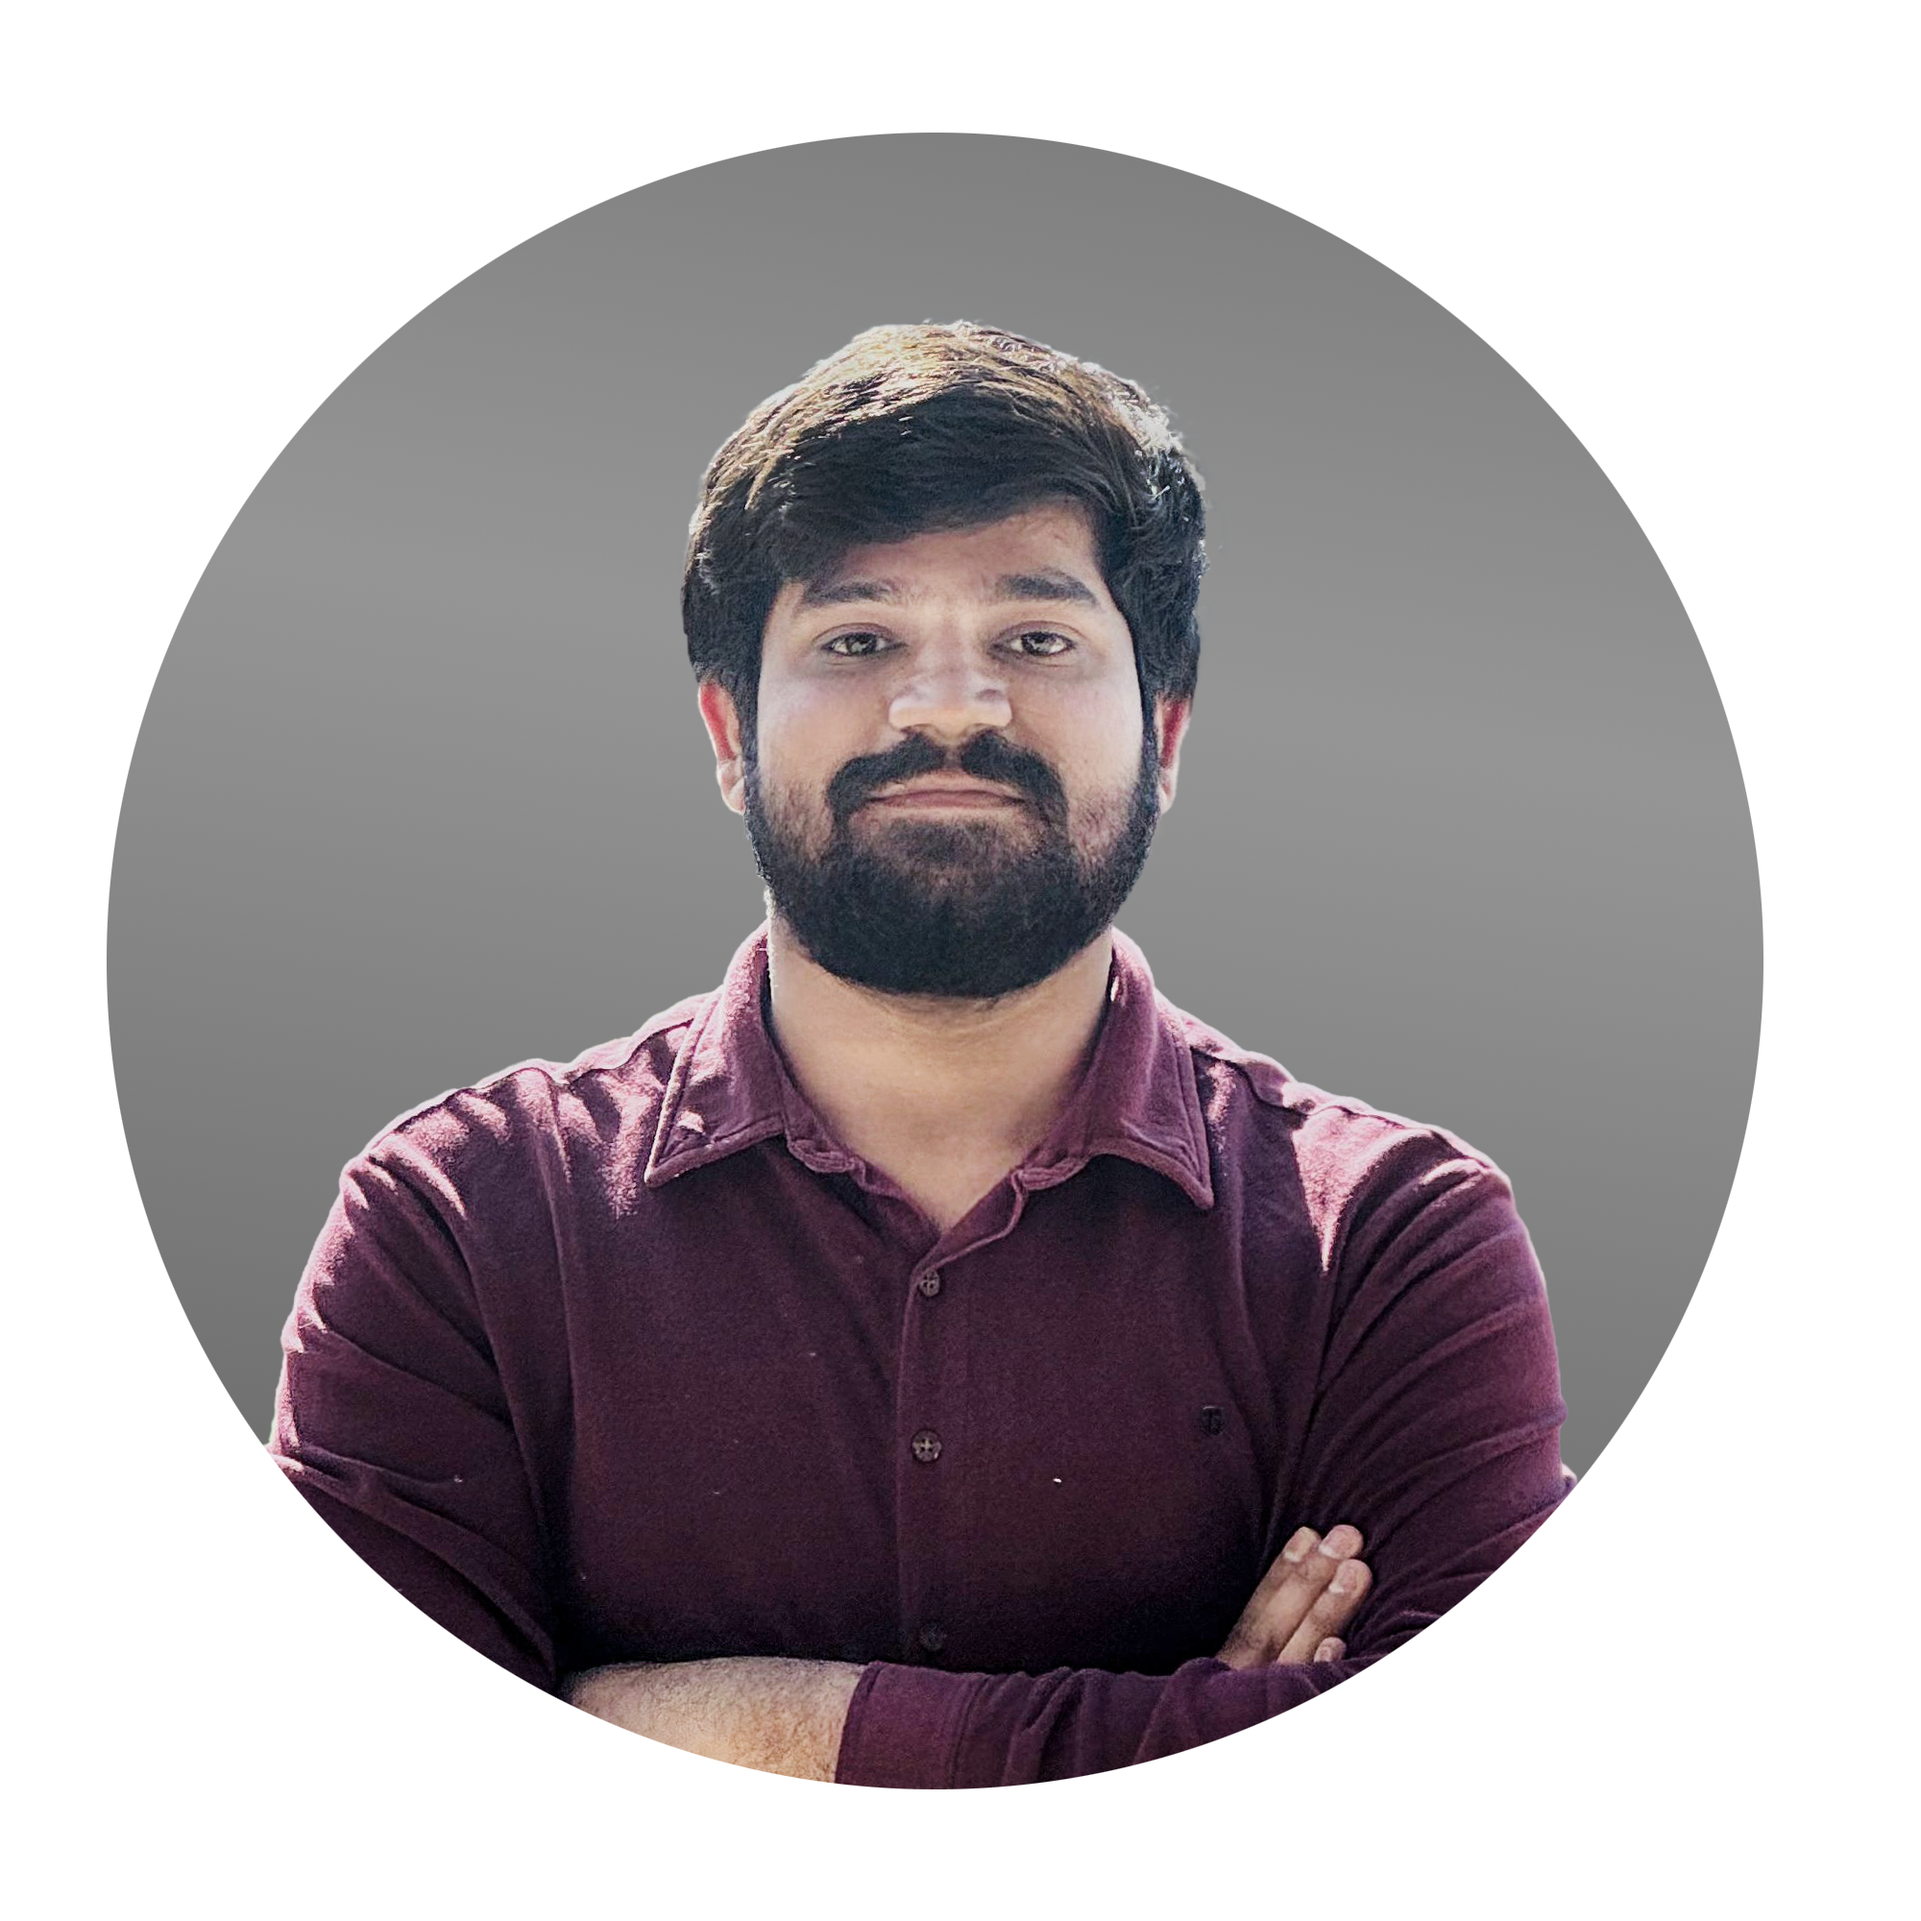
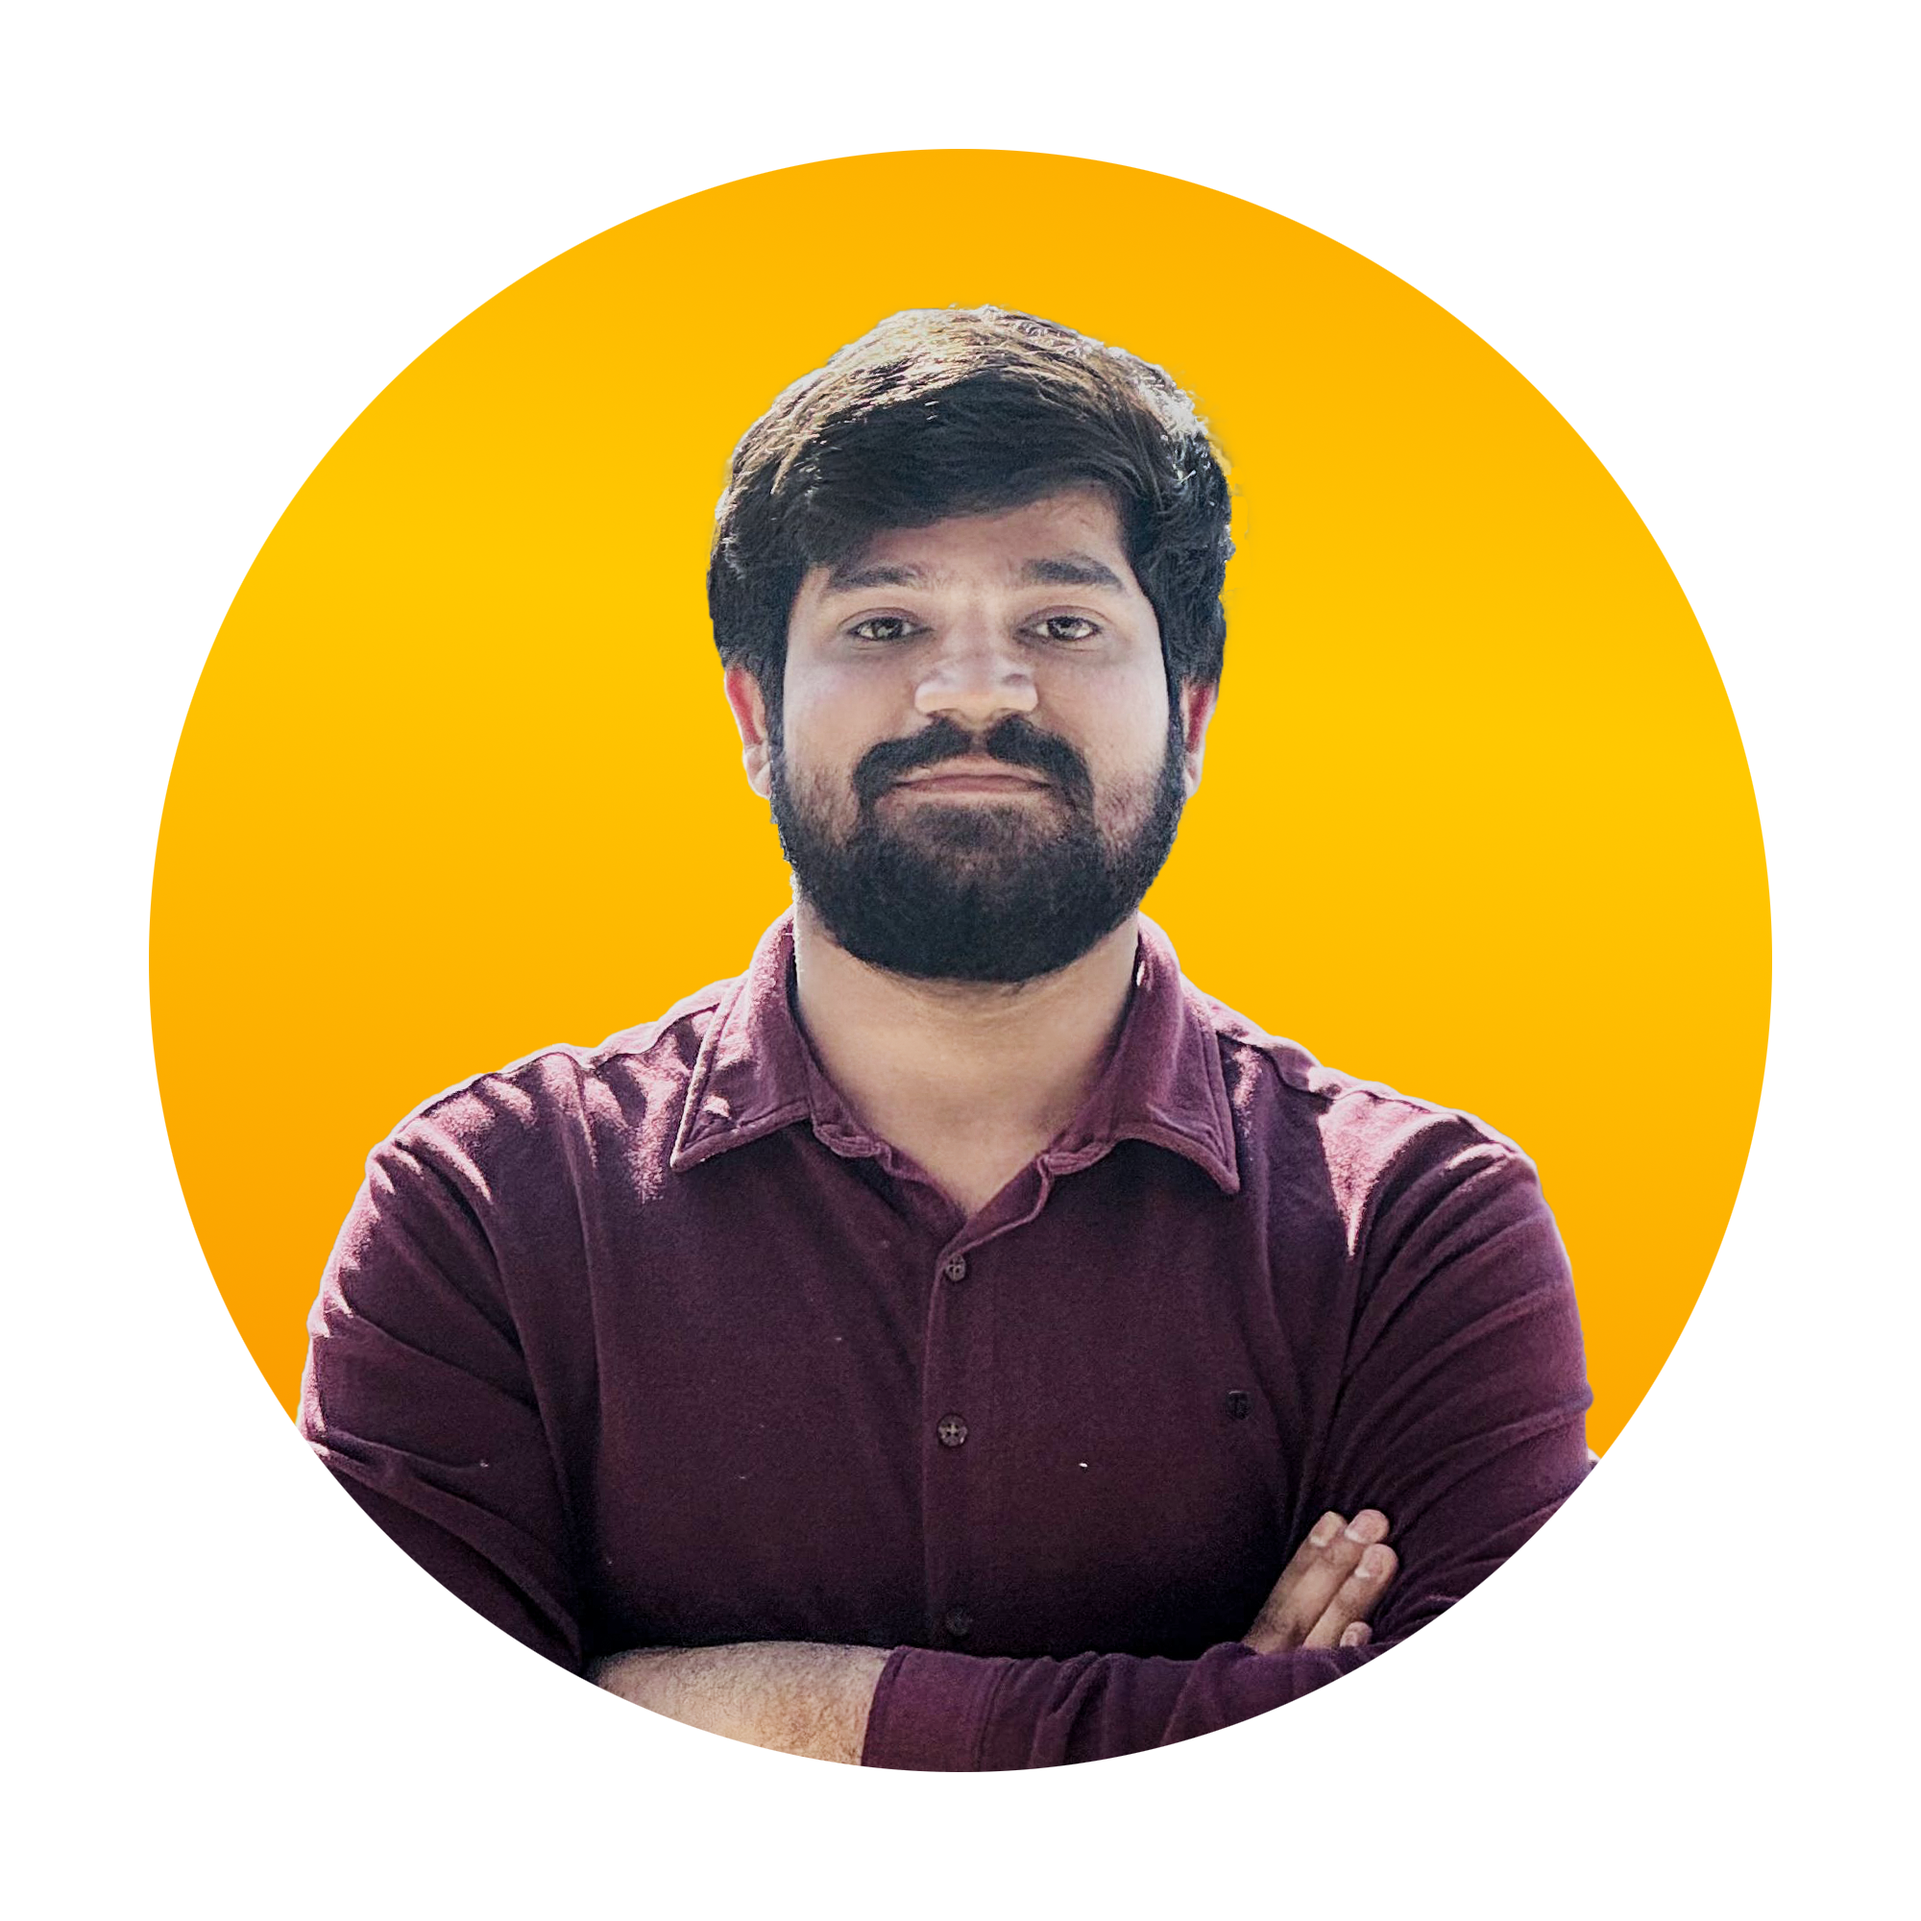
feat : changes Done to Theme Button

diff --git a/js/main.js b/js/main.js
@@ -7,18 +7,21 @@ const hamburger = document.querySelector('.hamburger');
 const navLinksContainer = document.querySelector('.nav-links');
 const body = document.body;
 const navLinksItems = document.querySelectorAll('.nav-links a');
+const profileImage = document.querySelector('.about-image img');
 
 // Theme Toggle
 function initTheme() {
     // Always set the light theme by default
     document.documentElement.setAttribute('data-theme', 'light');
     themeToggle.innerHTML = '<i class="fas fa-moon"></i>'; // Show moon icon for light theme
+    profileImage.src = './images/profile1.jpg.png';
 
     // Check for saved theme only after setting default, to allow user override
     const savedTheme = localStorage.getItem('theme');
     if (savedTheme === 'dark') {
         document.documentElement.setAttribute('data-theme', 'dark');
         themeToggle.innerHTML = '<i class="fas fa-sun"></i>'; // Show sun icon for dark theme
+        profileImage.src = './images/profile.jpg.png';
     }
 }
 
@@ -50,6 +53,11 @@ themeToggle.addEventListener('click', () => {
     document.documentElement.setAttribute('data-theme', newTheme);
     localStorage.setItem('theme', newTheme); // Save the user's preference
     updateThemeIcon(newTheme); // Update the icon to match the new theme
+    if (newTheme === 'light') {
+        profileImage.src = './images/profile1.jpg.png';
+    } else {
+        profileImage.src = './images/profile.jpg.png';
+    }
 });
 
 // Hamburger Menu Functionality

diff --git a/index.html b/index.html
@@ -12,7 +12,7 @@
     <!-- Google Fonts -->
     <link href="https://fonts.googleapis.com/css2?family=Poppins:wght@300;400;500;600;700&display=swap"
         rel="stylesheet">
-    <link rel="icon" type="image/x-icon" href="./images/profile.jpg.png">
+    <link rel="icon" type="image/x-icon" href="./images/profile1.jpg.png">
 </head>
 
 <body data-scroll-container>
@@ -59,7 +59,8 @@
                         innovative solutions and bringing ideas to life through code.</p>
                 </div>
                 <div class="about-image">
-                    <img src="./images/profile.jpg.png" alt="About Me">
+                    <img src="./images/profile1.jpg.png" alt="About Me">
+                    
                 </div>
                 <div class="skills">
                     <h3>Skills</h3>
